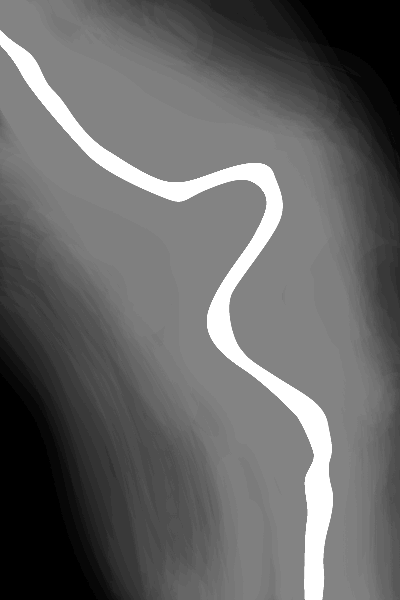
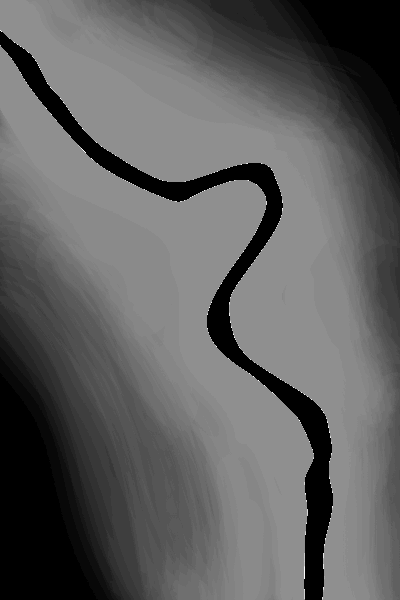
Finish claim_field and farm household methods

Changed region(s): [[0.0, 0.06, 0.84, 1.0]]

diff --git a/src/simulation/household.py b/src/simulation/household.py
@@ -1,3 +1,4 @@
+import math
 import random
 
 import numpy as np
@@ -15,12 +16,12 @@ class Household:
         """Initialise household attributes upon object instantiation.
 
         Keyword arguments:
+        KNOWLEDGE_RATIO      -- knowledge_radius per household specified in pixels
         model                -- model that defines the decisions made by the household
         id                   -- household identification number
         num_workers          -- size of household
         grain                -- current amount of grain held by household
         generation_countdown -- not implemented
-        KNOWLEDGE_RATIO      -- knowledge_radius per household specified in pixels
         min_competency       -- generated competency between min_competency and 1
         min_ambition         -- generated ambition between min_ambition and 1
         env                  -- used to determine the household's starting position
@@ -30,6 +31,8 @@ class Household:
         """
         self.KNOWLEDGE_RATIO = rconfig['knowledge_ratio'] # In pixels.
         self.CLAIM_RATIO = rconfig['claim_ratio']
+        self.MAX_POTENTIAL_YIELD = rconfig['maximum_potential_yield']
+        self.WORKER_CAPABILITY = rconfig['worker_capability']
 
         self.model = model
         self.id = id
@@ -40,9 +43,9 @@ class Household:
         self.competency = model.generate_competency(min_competency)
         self.ambition = model.generate_ambition(min_ambition)
         self.position = model.generate_position(env)
+
         self.columns = ['id','num_workers','grain','fields_owned','generation_countdown',
             'competency','ambition','x_pos','y_pos', 'knowledge_radius']
-
 
     def statistics(self):
         """Return dictionary of attribute information."""
@@ -54,22 +57,35 @@ class Household:
                 'x_pos':x, 'y_pos':y, 'knowledge_radius':knowledge_radius}
         return data_dict
 
-    def claim_fields(self, environment):
+    def claim_field(self, environment):
         """Not implemented."""
-        claim_chance = random.random()
-        if(claim_chance < self.ambition and self.num_workers > self.fields_owned):
-            x_field, y_field = self.model.choose_claim_fields(self.KNOWLEDGE_RATIO, self.num_workers, self.position, environment)
-
-            # y_max, x_max = environment.shape
-            # if(y_field > 0 and x_field > 0 and y_field < y_max and x_field < x_max):
-            #     claimed = environment.claim_map[y_field, x_field]
-            #     fertile = environment.fertility_map[y_field, x_field]
-            #     if not claimed and not fertile:
-                    # environment.claim_map[y_field, x_field] = self.id
+        field_coord = self.model.choose_claim_field(self.KNOWLEDGE_RATIO, self.num_workers, self.position, environment)
+        available_area = self.CLAIM_RATIO*self.num_workers
+        claimed_field = (field_coord, available_area)
+        self.claimed_field = claimed_field
 
     def farm(self, environment):
         """Not implemented."""
-        pass
+        field_coord, available_area = self.claimed_field
+        x_field, y_field = field_coord
+        sqrt_area = math.sqrt(available_area)
+        claimed_area = math.floor(sqrt_area)**2
+        # Converts the max_area of a claim field to a square set of pixels.
+        # On average, the difference between max_area and area increases as the number of workers increase.
+        # This is representative of increasing economies of scale (or inefficiencies that arise from an
+        # increasing labour force).
+        nrows, ncols = environment.shape
+        diff = int(sqrt_area/2)
+        x_start = max(0, x_field - diff)
+        y_start = max(0, y_field - diff)
+        x_end = min(ncols-1, x_field + diff)
+        y_end = min(nrows-1, y_field + diff)
+        fertility = environment.fertility_map[y_start:y_end, x_start:x_end]
+        field = fertility * self.MAX_POTENTIAL_YIELD
+        available_harvest = field.sum()
+        workers_capability = self.num_workers * self.WORKER_CAPABILITY
+        potential_harvest = min(available_harvest, workers_capability)
+        self.harvest = potential_harvest * self.competency
 
     def consume_grain(self, environment):
         """Not implemented."""
@@ -83,7 +99,3 @@ class Household:
         """Assign new position to household."""
         x, y = self.model.relocate(self.KNOWLEDGE_RATIO, self.num_workers, self.position, environment)
         self.position = (x, y)
-
-    def get_grain(self):
-        """Return current grain amount held by household."""
-        return self.grain

diff --git a/src/gui/view.py b/src/gui/view.py
@@ -44,6 +44,9 @@ class View():
         fertility_img = self.fertility_img(fertility_map)
         display = fertility_img + river_img
 
+        change_arrid = lambda x: x if tuple(x) != self._BLACK else self._WHITE
+        display = vec_change_arrid = np.apply_along_axis(change_arrid, axis=2, arr=display)
+
         fig = plt.figure()
         x_pos, y_pos = self.get_pos(statistics)
         area = self.get_area(statistics)
@@ -111,7 +114,7 @@ class View():
         colour_invert = 255*invert
         fertility_list = list(colour_invert)
         _, g, _ = self._GREEN
-        make_green = lambda px: (int(px), g, int(px)) if px != 255 else self._WHITE
+        make_green = lambda px: (int(px), g, int(px)) if px != 255 else self._BLACK
         fertility_list = [list(map(make_green, row)) for row in fertility_list]
         # The above code is very specific to how shades of green scale (in rgb colour format).
         return np.array(fertility_list)

diff --git a/src/simulation/simulation_driver.py b/src/simulation/simulation_driver.py
@@ -63,9 +63,9 @@ def run_simulation(presenter):
     while presenter.num_generations > 0:
         if not households:
             break
-        households.sort(key=lambda x: x.get_grain(), reverse=True)
+        households.sort(key=lambda x: x.grain, reverse=True)
         for house in households:
-            house.claim_fields(env)
+            house.claim_field(env)
             house.farm(env)
             house.relocate(env)
         presenter.update()
@@ -73,9 +73,6 @@ def run_simulation(presenter):
 
 
 if __name__ == "__main__":
-    logger = logging.getLogger()
-    logger.setLevel(100)
-
     river_map, shape = setup_map('../../resources/maps/river_map.png')
     fertility_map, shape = setup_map('../../resources/maps/fertility_map.png')
     wconfig = load_config('../wconfig.yml')

diff --git a/src/model/agent_model.py b/src/model/agent_model.py
@@ -38,9 +38,9 @@ class AgentModel(AbstractModel):
             x, y = super().generate_position(environment)
         return (x, y)
 
-    def choose_claim_fields(self, knowledge_ratio, num_workers, current_position, environment):
+    def choose_claim_field(self, knowledge_ratio, num_workers, current_position, environment):
         """Not implemented."""
-        return super().choose_claim_fields(num_workers, knowledge_ratio, current_position, environment)
+        return super().choose_claim_field(num_workers, knowledge_ratio, current_position, environment)
 
     def relocate(self, knowledge_ratio, num_workers, current_position, environment):
         """Extend superclass method."""

diff --git a/src/simulation/model_interface.py b/src/simulation/model_interface.py
@@ -41,7 +41,7 @@ class AbstractModel(ABC):
         return (x, y)
 
     @abstractmethod
-    def choose_claim_fields(self, knowledge_ratio, num_workers, current_position, environment):
+    def choose_claim_field(self, knowledge_ratio, num_workers, current_position, environment):
         """Not yet implemented."""
         knowledge_radius = knowledge_ratio*num_workers
         x_pos, y_pos = current_position
